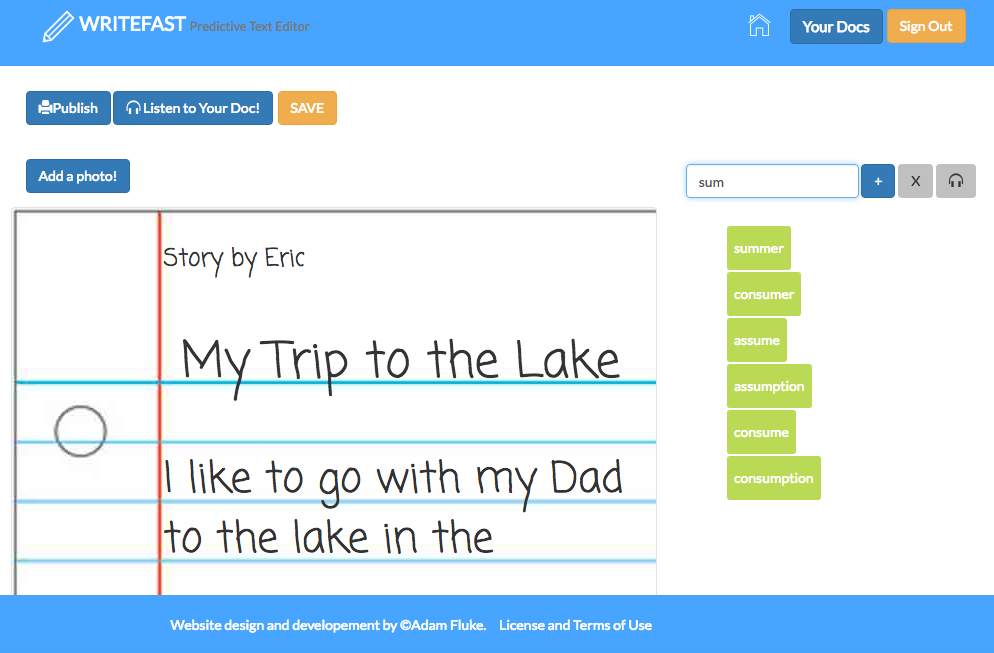
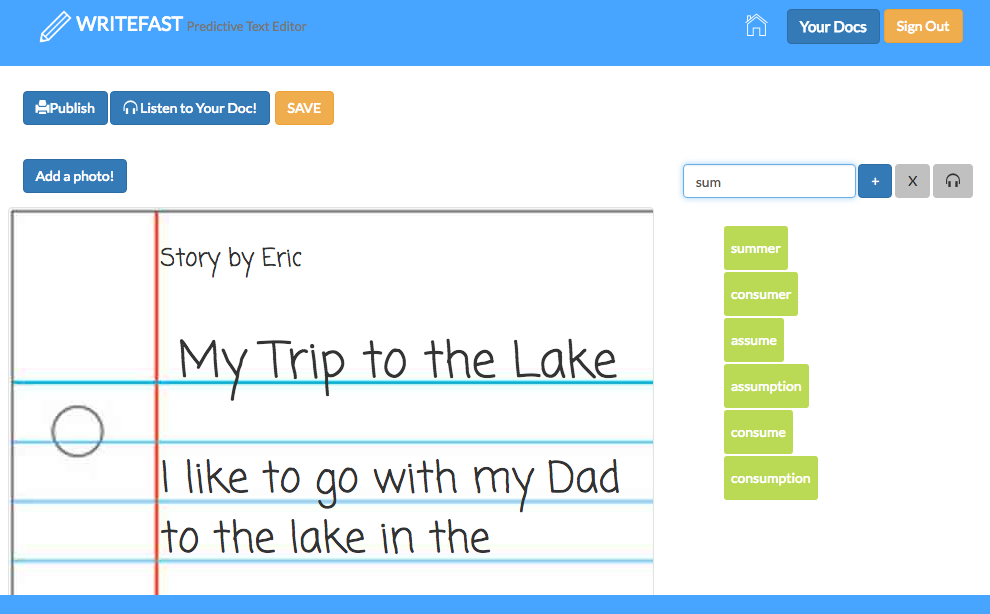
crop image, edit README text

Changed region(s): [[0.0, 0.0309, 1.0, 0.9902], [0.6667, 0.2476, 1.0, 0.8355], [0.0303, 0.0, 0.303, 0.0619]]

diff --git a/README.md b/README.md
@@ -2,6 +2,8 @@
 
 WriteFast allows elementary-aged students with dysgraphia and agraphia to write with ease by suggesting words as the user composes sentences. Check out the project [here](http://www.writefast.herokuoapp.com).
 
-This project was completed over the course of a two-day socially-minded hackathon at Dev Bootcamp in San Francisco.
+This project was completed over the course of a two-day socially-minded hackathon at Dev Bootcamp in San Francisco. In addition to several Ruby gems, the app makes use of [ResponsiveVoice.js](http://responsivevoice.org/), a text-to-speech library.
+
+# Screenshot
 
 ![Text editor screenshot](public/img/screenshot_main.png)
